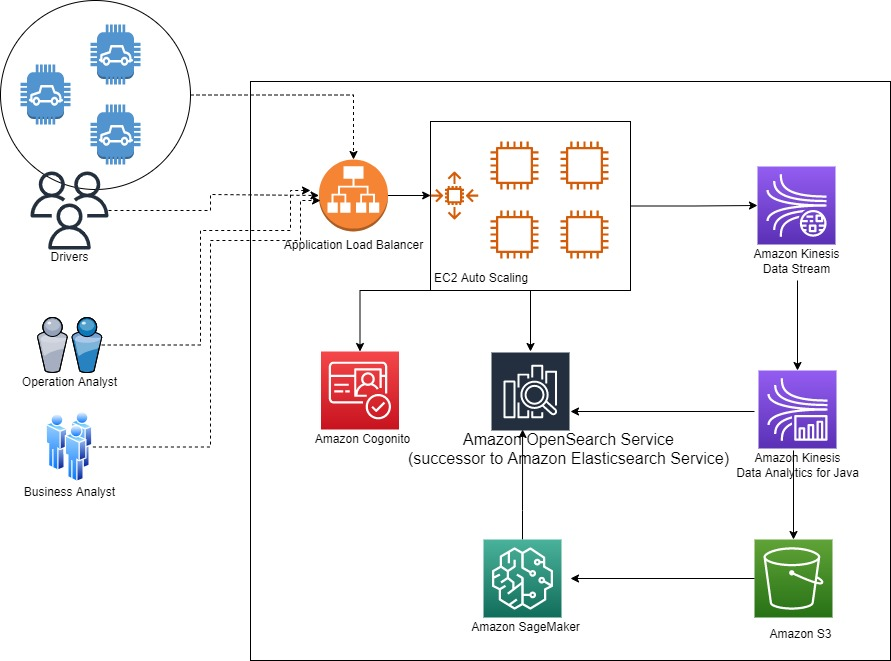
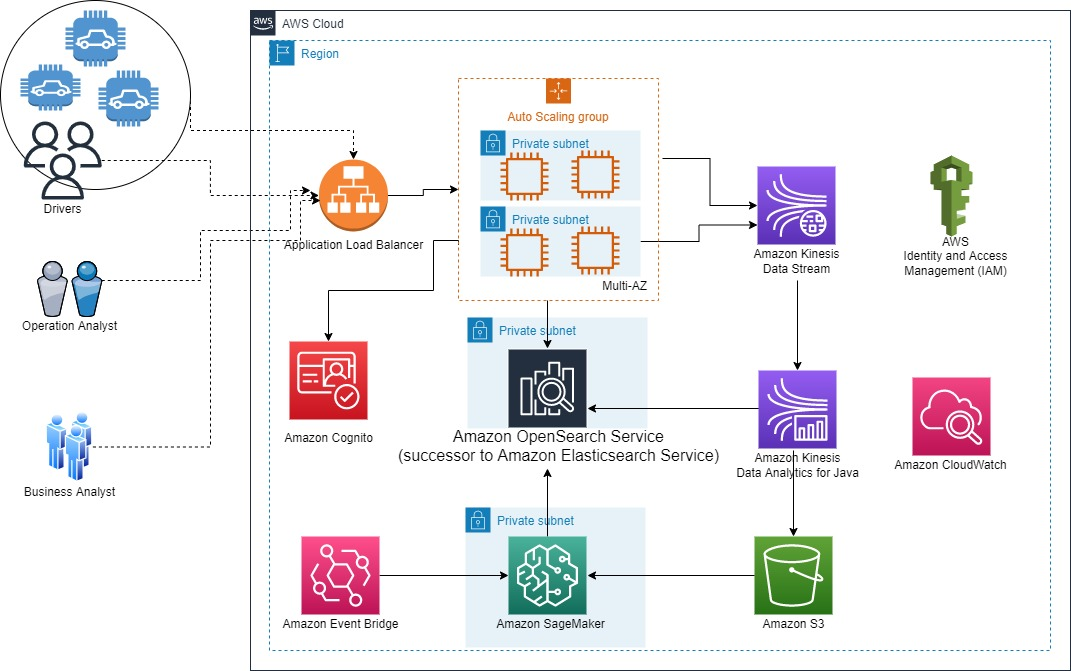
update docs

diff --git a/README.md b/README.md
@@ -39,9 +39,9 @@ At least **10 thousand** drivers’ concurrencies.
 ### Data Flow
 
 1. Driver's mobile app send real-time event data to web application hosted on EC2 instances.
-2. Web application accept then read-time event data and sent it to Amazon Kinesis Data Stream.
-3. Amazon Kinesis Data Analystic for Java Application retrieve data from Kinesis Data Stream to do 10 minutes time window Map-Reduce data process, and save the transformed data to Amazon OpenSearch Service (real-time data index) and Amazon S3.
-4. Amazon SageMaker retrieve the transformed data from S3. Use DeepAR algorithm to train the time series based data and save the forecasting time series data to Amazon OpenSearch Service (forecasting data index).
+2. Web application accept then real-time event data and sent it to Amazon Kinesis Data Stream.
+3. Amazon Kinesis Data Analystic for Java Application retrieve data from Kinesis Data Stream to do 10 minutes time window Map-Reduce data process, and save the transformed data to Amazon OpenSearch Service (real-time data index) and Amazon S3 bucket.
+4. Amazon Event Bridge trigger a daily job to launch Amazon SageMaker to retrieve the transformed data from Amazon S3 bucket, use DeepAR algorithm to train the time series based data and save the forecasting time series data to Amazon OpenSearch Service (forecasting data index).
 5. End users signin the portal web application hosted on EC2 instances (The user identity is managed by Amazon Cognito) to do some trend analysis. The web application accepts the user requests, retrieve data from OpenSearch Service, generates charts, and displays them to users.
 
 
